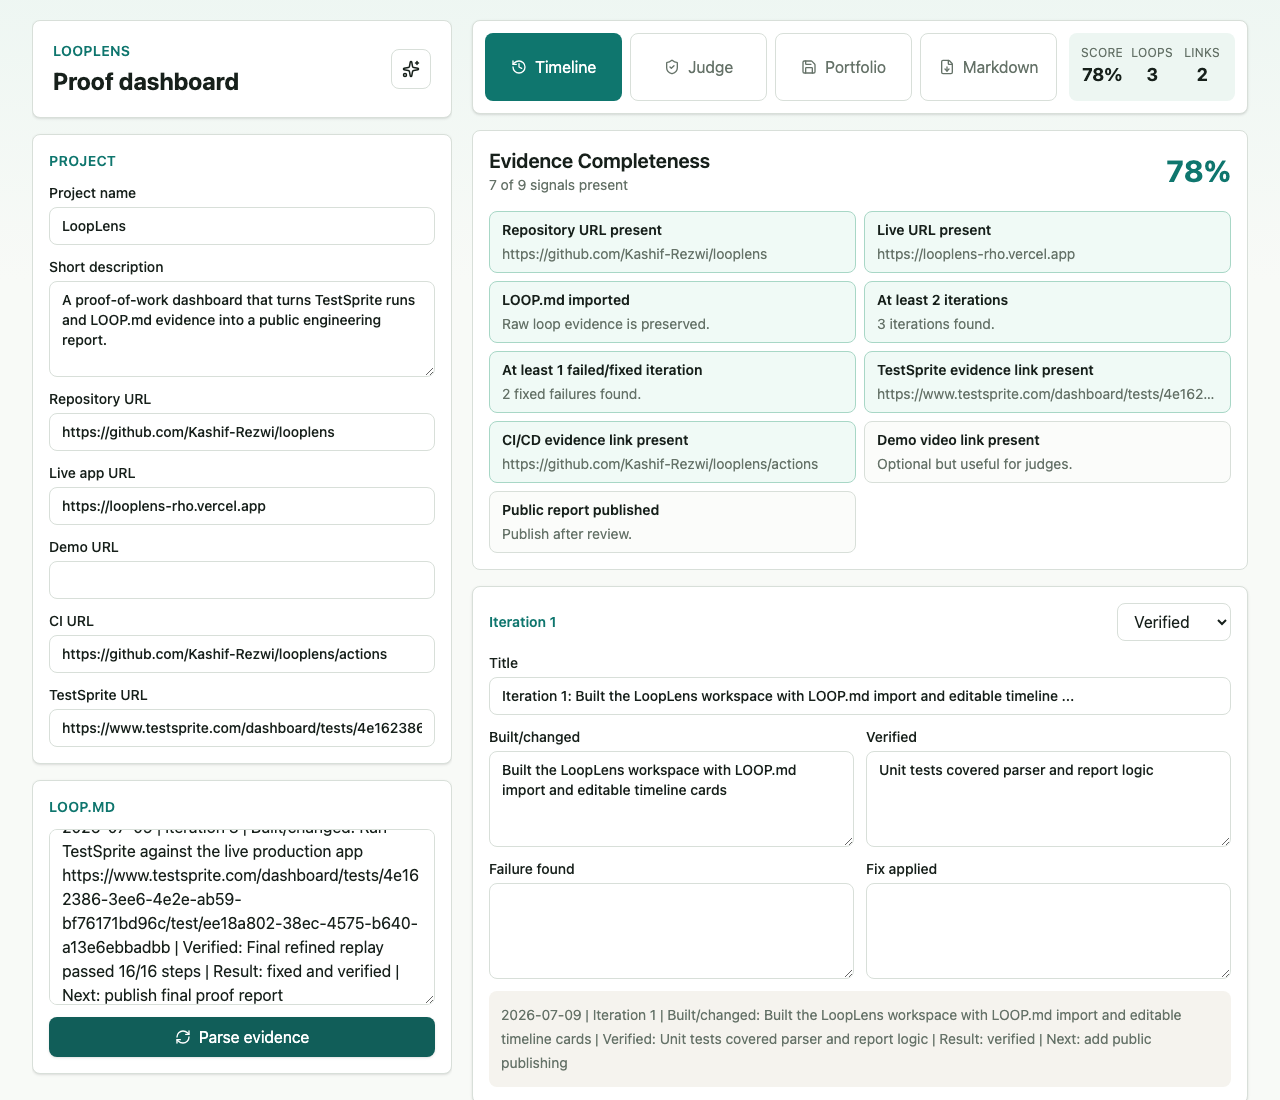
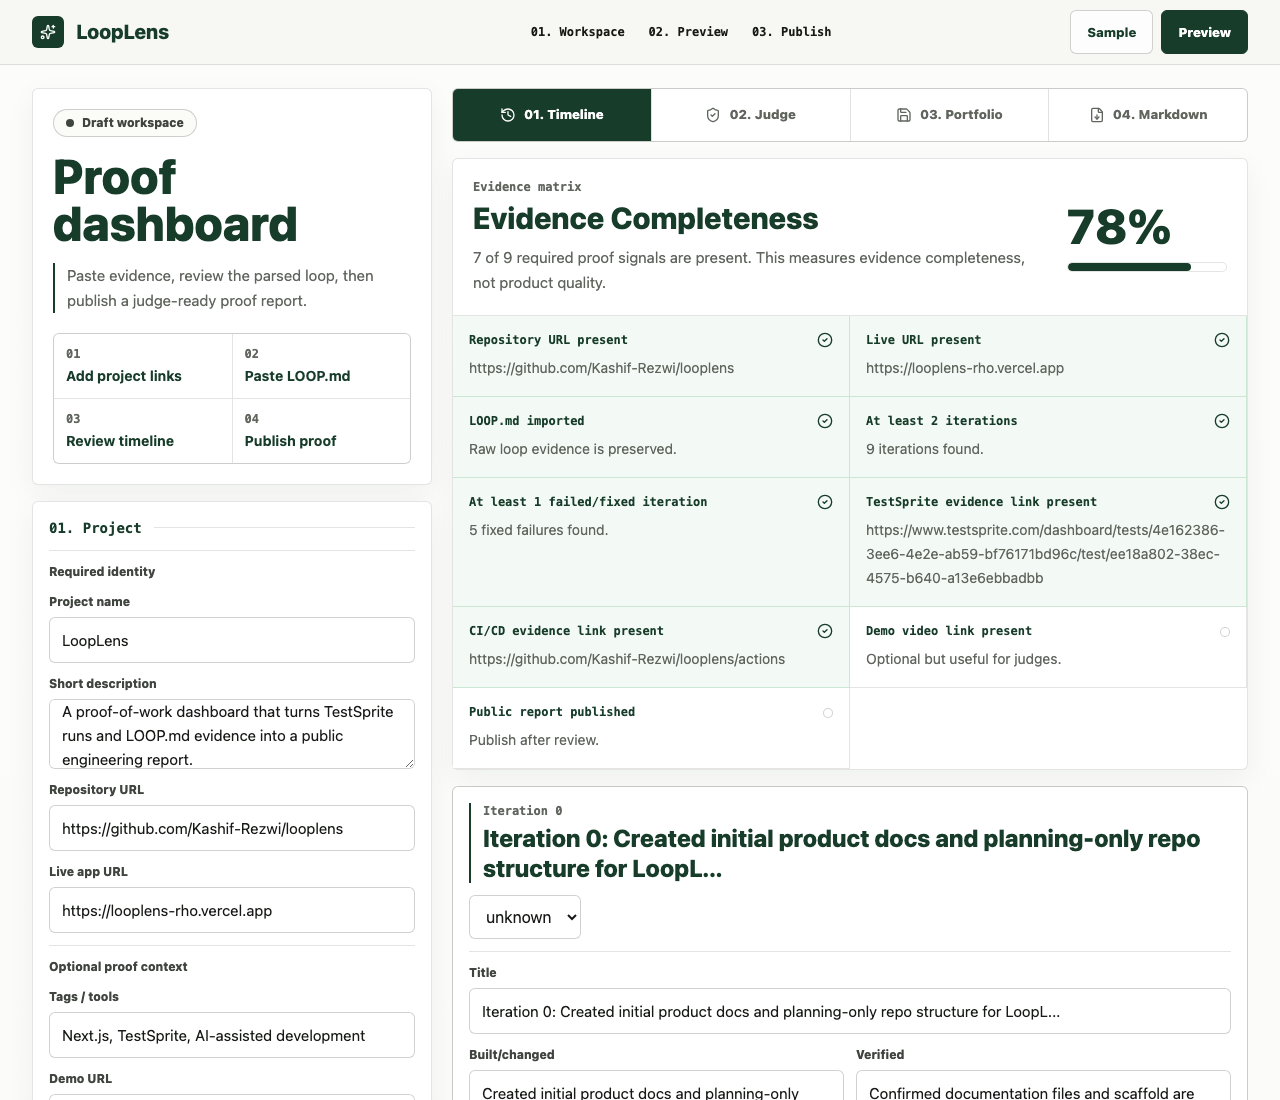
docs: update README with new self-report screenshots and improved project description

diff --git a/README.md b/README.md
@@ -20,9 +20,13 @@ Live app: https://looplens-rho.vercel.app
 Final LoopLens self-report: https://looplens-rho.vercel.app/report/looplens-687aa5cd
 ```
 
-The final self-report was published from the real [`LOOP.md`](./LOOP.md) and is the primary public proof artifact for the project. It shows 8 recorded engineering iterations, 5 fixed failures, production publish evidence, and the final TestSprite verification harness fix.
+The final self-report was published from the real [`LOOP.md`](./LOOP.md) and is the primary public proof artifact for the project. It shows recorded engineering iterations, fixed-failure evidence, production publish evidence, and the final TestSprite verification harness fix.
 
 ## Screenshots
+
+### Self-Report Hero
+
+![LoopLens public self-report hero showing evidence completeness, iteration count, fixed failures, publish status, and proof chain](./public/screenshots/public-report.png)
 
 ### Workspace Timeline
 
@@ -31,10 +35,6 @@ The final self-report was published from the real [`LOOP.md`](./LOOP.md) and is 
 ### Judge Mode
 
 ![LoopLens Judge Mode summarizing iterations, fixed failures, and evidence completeness](./public/screenshots/judge-mode.png)
-
-### Public Report
-
-![LoopLens public report with evidence score, judge summary, portfolio summary, and timeline](./public/screenshots/public-report.png)
 
 Implemented:
 